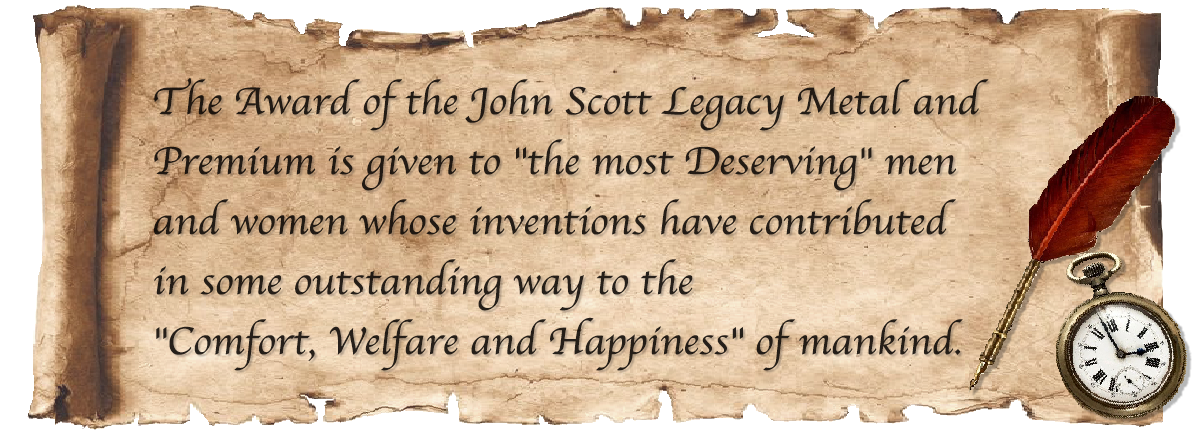
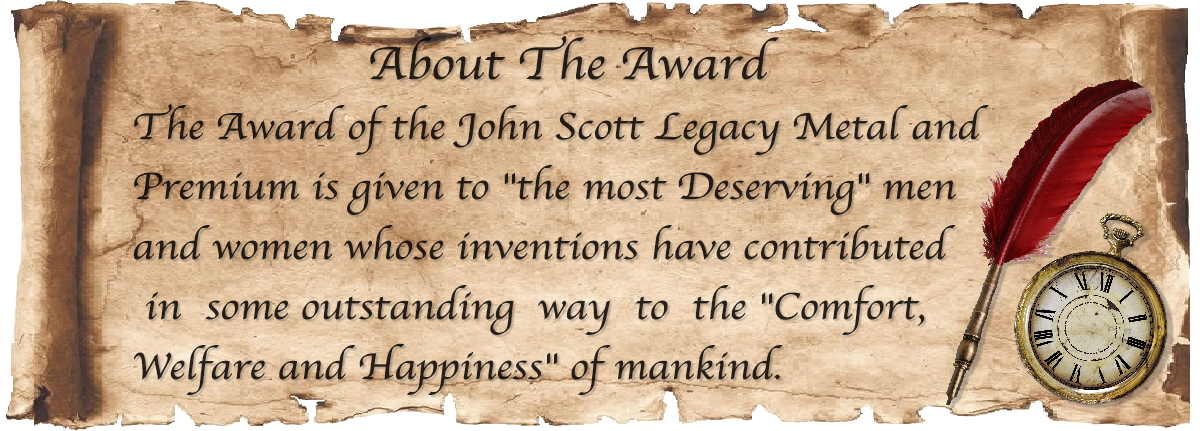
updates 11-24

diff --git a/2001-current.html b/2001-current.html
@@ -56,7 +56,7 @@
             </div>
             <div class="col-6">
               <header>
-				<a href="https://www.med.upenn.edu/apps/faculty/index.php/g325/p13418" target="_blank"><h3>Katalin Kariko, PhD (2021)</h3></a>
+				<a href="https://www.med.upenn.edu/apps/faculty/index.php/g325/p13418" target="_blank"><h3>Dr. Katalin Kariko (2021)</h3></a>
                 <p>Professor of Ophthalmology at the Perelman School of Medicine, University of Pennsylvania</p>
               </header>
 			  <p>For establishing the platform for constructing stable and safe mRNA to enable gene-induced immune response within the human body.</p>
@@ -73,7 +73,7 @@
             </div>
             <div class="col-6">
               <header>
-				<a href="https://www.med.upenn.edu/apps/faculty/index.php/g275/p11214" target="_blank"><h3>Drew Weissman, MD, PhD (2021)</h3></a>
+				<a href="https://www.med.upenn.edu/apps/faculty/index.php/g275/p11214" target="_blank"><h3>Dr. Drew Weissman (2021)</h3></a>
                 <p>Professor of Medicine at the Perelman School of Medicine, University of Pennsylvania</p>
               </header>
 			  <p>For the development of the mRNA approach to enable gene-induced immune response within the human body.</p>
@@ -89,7 +89,7 @@
             </div>
             <div class="col-6">
               <header>
-				<a href="https://www.med.upenn.edu/apps/faculty/index.php/g275/p11214" target="_blank"><h3>Jean Bennett, MD, PhD (2020)</h3></a>
+				<a href="https://www.med.upenn.edu/apps/faculty/index.php/g275/p11214" target="_blank"><h3>Dr. Jean Bennett (2020)</h3></a>
                 <p>Professor of Ophthalmology at the Perelman School of Medicine, University of Pennsylvania</p>
               </header>
 			  <p>For developing gene therapies for curing retinal degeneration and ocular diseases.</p>
@@ -106,7 +106,7 @@
             </div>
             <div class="col-6">
               <header>
-				<a href="https://pharm.ucsf.edu/degrado" target="_blank"><h3>William DeGrado, PhD (2020)</h3></a>
+				<a href="https://pharm.ucsf.edu/degrado" target="_blank"><h3>Dr. William DeGrado (2020)</h3></a>
                 <p>Professor of Pharmaceutical Chemistry at the University of California</p>
               </header>
 			  <p>For synthesis of novel peptides and proteins and the development of antimicrobial peptides.</p>
@@ -140,7 +140,7 @@
             </div>
             <div class="col-6">
               <header>
-				<a href="https://www.stroustrup.com" target="_blank"><h3>Bjarne Stroustrup (2018)</h3></a>
+				<a href="https://www.stroustrup.com" target="_blank"><h3>Dr. Bjarne Stroustrup (2018)</h3></a>
                 <p> F. M. Kirby Professor of Ophthalmology in the Perelman School of Medicine at the University of Pennsylvania</p>
               </header>
 			  <p>For establishing the platform for constructing stable and safe mRNA to enable gene-induced immune response within the human body.</p>
@@ -355,7 +355,7 @@
               </div>
               <div class="col-6">
                 <header>
-          <a href="http://pathology.med.upenn.edu/department/people/447/carl-h-june" target="_blank"><h3>Dr. Carl H. June (2016)</h3></a>
+          <a href="http://pathology.med.upenn.edu/department/people/447/carl-h-june" target="_blank"><h3>Dr. Leonard Hayflick (2014)</h3></a>
                   <p>Professor of Anatomy, School of Medicine, University of California, San Francisco, CA.
                     Fellow of the American Association for the Advancement of Science
                     Founding Member, Council of the National Institute on Aging
@@ -417,7 +417,7 @@
               </div>
               <div class="col-6">
                 <header>
-          <a href="https://www.med.upenn.edu/apps/faculty/index.php/g20/p16536" target="_blank"><h3>Dr. P. Leslie Dutton (2013)</h3></a>
+          <a href="https://www.med.upenn.edu/apps/faculty/index.php/g20/p16536" target="_blank"><h3>Dr. Peter. Leslie Dutton (2013)</h3></a>
                   <p>Eldridge Reeves Johnson Professor of Biochemistry & Biophysics
                     Director, Johnson Foundation of Molecular Biophysics
                     Perelman School of Medicine
@@ -508,28 +508,7 @@
           Dr. Trojanowski's  research centers on molecular mechanisms of neuron dysfunction, degeneration and death in normal aging and in neurodegenerative diseases.  Dr. D.Lee's research focuses on disease proteins that form pathological inclusions in hereditary and sporadic Alzheimer's disease, Parkinson's disease, frontotemporal lobar degeneration, amyotrophic lateral sclerosis and related neurodegenerative disorders of aging.  Their research provides critical evidence for the direction of new areas of research that are needed to identify targets and create better treatments for these debilitating diseases.</div>
           </section>       
 
-            <!-- r. John Q. Trojanowski & Dr. Virginia Man-Yee Lee (2012) -->
-            <section class="box" class="row gtr-50 gtr-uniform">
-              <div class="col-6">
-                <p>
-                  <span class="image left">
-                    <img src="images/2001/tro-and-lee.jpg" alt="tro-and-lee-img" />
-                </p>
-              </div>
-              <div class="col-6">
-                <header>
-          <a href="https://www.med.upenn.edu/apps/faculty/index.php/g275/p12536" target="_blank"><h3>Dr. Virginia Man-Yee Lee (2012)</h3></a>
-          <a href="http://pathology.med.upenn.edu/department/people/506/john-q-trojanowski" target="_blank"><h3>Dr. John Q. Trojanowski (2012)</h3></a>
-                  <p>Dr. Lee is the Director and 
-                    Dr. Trojanowski is the Co-Director 
-                    Center for Neurodegenerative Disease Research (CNDR)
-                    University of Pennsylvania
-                    Perelman School of Medicine
-                    Philadelphia, PA</p>
-                </header>
-          <p>Recognized for their groundbreaking research into the treatment of neurodegenerative diseases.
-            Dr. Trojanowski's  research centers on molecular mechanisms of neuron dysfunction, degeneration and death in normal aging and in neurodegenerative diseases.  Dr. D.Lee's research focuses on disease proteins that form pathological inclusions in hereditary and sporadic Alzheimer's disease, Parkinson's disease, frontotemporal lobar degeneration, amyotrophic lateral sclerosis and related neurodegenerative disorders of aging.  Their research provides critical evidence for the direction of new areas of research that are needed to identify targets and create better treatments for these debilitating diseases.</div>
-            </section>  
+             
             
              <!-- Dr. David E. Kuhl (2011) -->
              <section class="box" class="row gtr-50 gtr-uniform">

diff --git a/1951-2000.html b/1951-2000.html
@@ -494,8 +494,12 @@
                   </tr>
                   <tr>
                     <td>
-                      <span style="font-weight:bold">Bickel, Horst, Dr., Gerrard, John and Saskatchewan, Canada Hickmans</span>
-                      <p>Prof. Pediatrics, Univ. Kinderklinik, Marburg, Germany & Prof. Pediatrics, Univ. & Evelyn, Wolverhampton, U.K.</p>
+                      <span style="font-weight:bold">Bickel, Horst, Dr.</span>
+                      <p>Prof. Pediatrics, Univ. Kinderklinik, Marburg, Germany</p>
+                      <span style="font-weight:bold">Gerrard, John</span>
+                      <p>Prof. Pediatrics, Univ.Saskatchewan, Canada</p>
+                      <span style="font-weight:bold">Hickmans, Evelyn</span>
+                      <p>Wolverhampton, U.K.</p>
                     </td>
                     <td style="font-style:italic">Method of controlling Phenylketonuria</td>
                     <td></td>
@@ -647,8 +651,10 @@
                       <span style="font-weight:bold">Bowles, Romald E., Dr. </span>
                       <p>Engineering Corp. Silver Springs, Md.</p>
                       <span style="font-weight:bold">Horton, Billy M.</span>
+                      <p></p>
                       <span style="font-weight:bold">McClure, Frank T.</span>
                       <p>Johns Hopkins Univ. Md.</p>
+                      
                     </td>
                     <td style="font-style:italic">Fluid amplifiers</td>
                     <td></td>
@@ -1020,7 +1026,8 @@
                   </tr>
                   
                   <tr>
-                    <td style="font-weight:bold">Hanna, Gordie C., Olericulturist Emeritus</td>
+                    <td><span style="font-weight:bold">Hanna, Gordie C., </span>
+                      <p>Olericulturist Emeritus</p></td>
                     <td style="font-style:italic">Inventive development of varieties of tomatoes necessary for use of the harvester</td>
                   </tr>
                 </tbody>

diff --git a/index.html b/index.html
@@ -48,7 +48,6 @@
 
 							<div class="#">
 							<main>
-								<h2 class="align-center">About the Award</h2>
 								<span class="image featured"><img src="images/main.png" alt="" /></span>
 								<p>The donor, John Scott, 
 									was an Edinburgh druggist who in the early 1800s set up a fund calling upon the "Corporation of Philadelphia entrusted with the management of Dr. Franklin's legacy" to bestow upon "ingenious men or women who make useful inventions" a premium not to exceed twenty dollars and a suitably inscribed copper medal.

diff --git a/assets/css/main.css b/assets/css/main.css
@@ -327,7 +327,7 @@ section.list h4 {
 
 	header h2 + p {
 		font-size: 1.25em;
-		margin-top: -1em;
+		margin-top: -0.5em;
 		line-height: 1.5em;
 	}
 
@@ -561,7 +561,7 @@ section.list h4 {
 /* Image */
 
 	.image {
-		border-radius: 6px;
+		border-radius: 2px;
 		border: 0;
 		display: inline-block;
 		position: relative;
